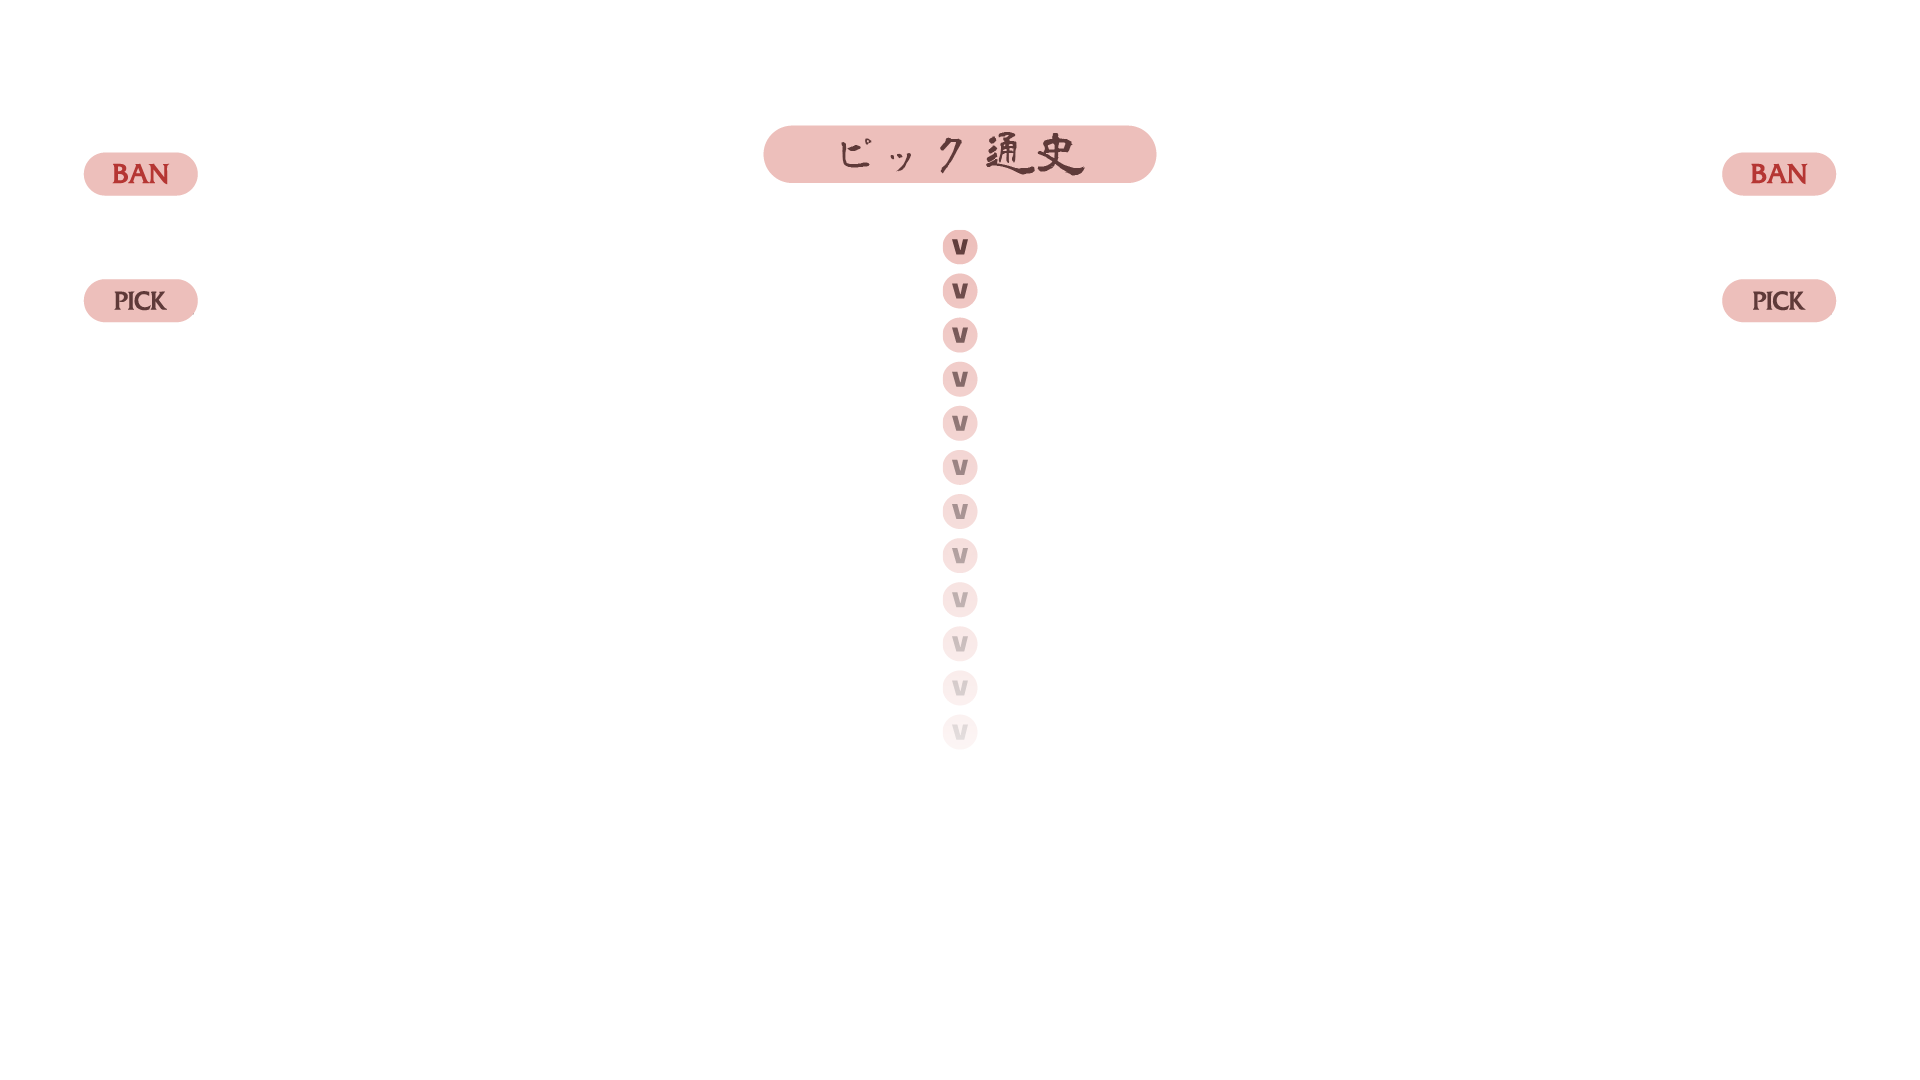
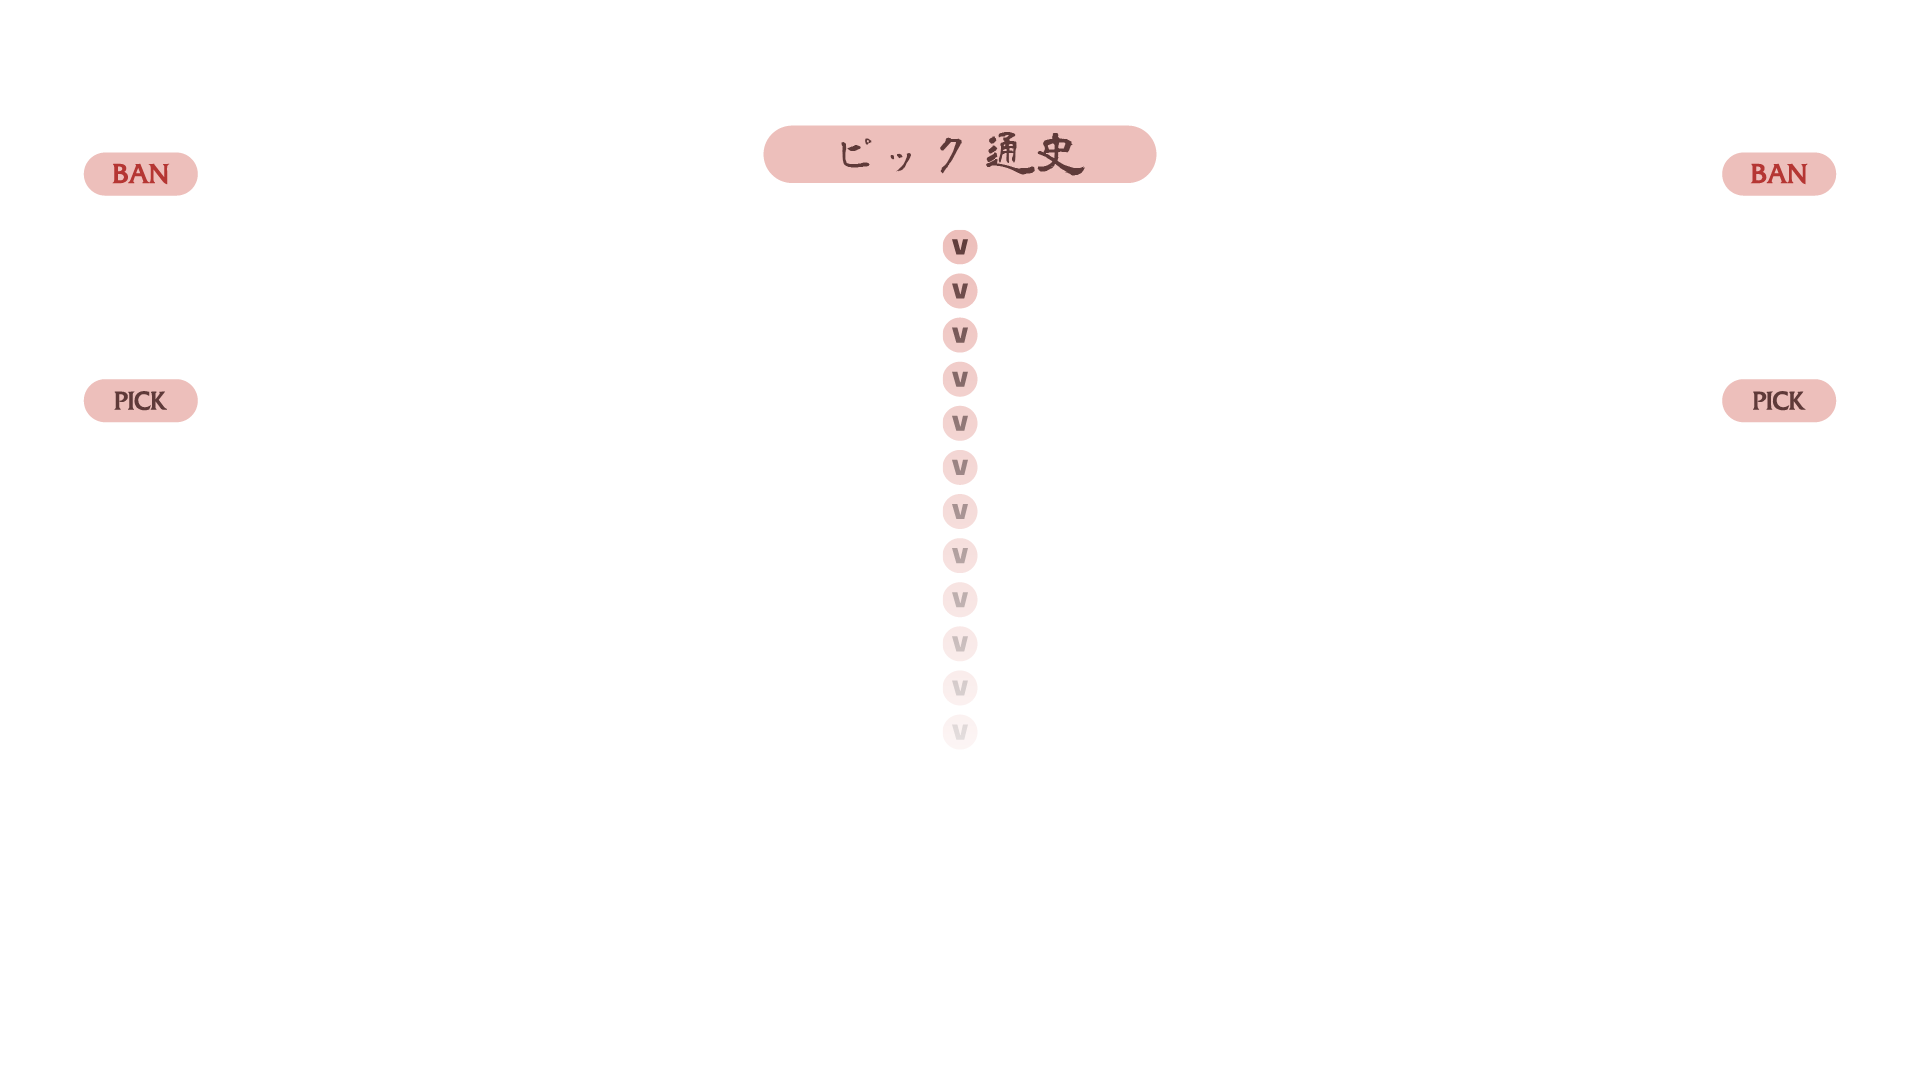
- fixed overlay for 2 bans

diff --git a/overlay/match/index.js b/overlay/match/index.js
@@ -91,7 +91,7 @@ class ScoreTracker {
         this.leftClients = [];
         this.rightClients = [];
     }
-    addClient(client,isLeft) {
+    addClient(client, isLeft) {
         if (isLeft) {
             this.leftClients.push(client);
         } else {
@@ -99,9 +99,9 @@ class ScoreTracker {
         }
     }
     updateClients(data) {
-        data.map(async(clientData,index) => {
+        data.map(async (clientData, index) => {
             // console.log(index);
-            const client = index < 2 ? this.leftClients[index] : this.rightClients[index-2];
+            const client = index < 2 ? this.leftClients[index] : this.rightClients[index - 2];
             if (client) {
                 client.updateMiss(clientData.gameplay.combo.current);
                 client.updateGood(clientData.gameplay.accuracy);
@@ -113,16 +113,16 @@ class ScoreTracker {
         })
     }
     getScores() {
-        if (this.currentState != 3) return null,null;
+        if (this.currentState != 3) return null, null;
         let left = 0;
         let right = 0;
-        this.leftClients.map(async(client) => {
+        this.leftClients.map(async (client) => {
             left += client.score ?? 0;
         })
-        this.rightClients.map(async(client) => {
+        this.rightClients.map(async (client) => {
             right += client.score ?? 0;
         })
-        return [left,right];
+        return [left, right];
     }
     updateState(state) {
         this.currentState = state;
@@ -171,7 +171,7 @@ class Client {
         this.matchClientUr = document.createElement("div");
         this.matchClientNameContainer = document.createElement("div");
         this.matchClientName = document.createElement("div");
-        
+
         this.matchClientDetails.id = `${this.clientNumber}CLIENTDETAILS`;
         this.matchClientMissGlow.id = `${this.clientNumber}CLIENTMISSGLOW`;
         this.matchClientLeft.id = `${this.clientNumber}CLIENTLEFT`;
@@ -210,7 +210,7 @@ class Client {
         document.getElementById(this.matchClientDetails.id).appendChild(this.matchClientMissGlow);
         document.getElementById(this.matchClientDetails.id).appendChild(this.matchClientLeft);
         document.getElementById(this.matchClientDetails.id).appendChild(this.matchClientRight);
-        
+
         document.getElementById(`${this.matchClientLeft.id}`).appendChild(this.matchClient100Container);
         document.getElementById(`${this.matchClientLeft.id}`).appendChild(this.matchClientMissContainer);
         document.getElementById(this.matchClientRight.id).appendChild(this.matchClientUrContainer);
@@ -916,74 +916,82 @@ class MatchManager {
         this.controllerTurn = document.getElementById("controllerTurn");
         this.controllerTurn.addEventListener("click", async (event) => {
             if (this.playerTurn == "left") {
-                if (this.hasBanned && this.banCount < 2) {
+                if (this.hasBanned && this.banCount < 4) {
                     this.hasBanned = false;
-                    this.controllerTurn.innerHTML = `Left Player ${this.banCount < 2 ? "Ban" : "Pick"}`;
+                    this.controllerTurn.innerHTML = `Left Player ${this.banCount < 4 ? "Ban" : "Pick"}`;
                     this.bottomT1Pick.style.animation = "fadeInRight 1s cubic-bezier(0.000, 0.125, 0.000, 1.005)";
                     this.bottomT1Pick.style.opacity = 1;
                     this.bottomT2Pick.style.animation = "fadeOutLeft 1s cubic-bezier(0.000, 0.125, 0.000, 1.005)";
                     this.bottomT2Pick.style.opacity = 0;
-                } else if (this.hasBanned || this.banCount < 2) {
-                    this.playerTurn = "right";
-                    this.controllerTurn.innerHTML = `Right Player ${this.banCount < 2 ? "Ban" : "Pick"}`;
+                } else if (this.hasBanned || this.banCount < 4) {
+                    this.playerTurn = this.banCount == 2 ? "left" : "right";
+                    this.controllerTurn.innerHTML = `${this.banCount == 2 ? "Left" : "Right"} Player ${this.banCount < 4 ? "Ban" : "Pick"}`;
                     if (this.hasBanned) {
                         this.bottomT1Pick.style.animation = "fadeOutRight 1s cubic-bezier(0.000, 0.125, 0.000, 1.005)";
                         this.bottomT1Pick.style.opacity = 0;
                         this.bottomT2Pick.style.animation = "fadeOutLeft 1s cubic-bezier(0.000, 0.125, 0.000, 1.005)";
                         this.bottomT2Pick.style.opacity = 0;
                     } else {
-                        this.bottomT2Pick.style.animation = "fadeInLeft 1s cubic-bezier(0.000, 0.125, 0.000, 1.005)";
-                        this.bottomT2Pick.style.opacity = 1;
-                        this.bottomT1Pick.style.animation = "fadeOutRight 1s cubic-bezier(0.000, 0.125, 0.000, 1.005)";
-                        this.bottomT1Pick.style.opacity = 0;
+                        if (this.banCount == 2) {
+                            this.bottomT1Pick.style.animation = "pickingBob 1s cubic-bezier(0,.7,.39,.99)";
+                        } else {
+                            this.bottomT2Pick.style.animation = "fadeInLeft 1s cubic-bezier(0.000, 0.125, 0.000, 1.005)";
+                            this.bottomT2Pick.style.opacity = 1;
+                            this.bottomT1Pick.style.animation = "fadeOutRight 1s cubic-bezier(0.000, 0.125, 0.000, 1.005)";
+                            this.bottomT1Pick.style.opacity = 0;
+                        }
                     }
                 } else {
                     this.hasBanned = true;
-                    this.controllerTurn.innerHTML = `Left Player ${this.banCount < 2 ? "Ban" : "Pick"}`;
+                    this.controllerTurn.innerHTML = `Left Player ${this.banCount < 4 ? "Ban" : "Pick"}`;
                     this.bottomT1Pick.style.animation = "pickingBob 1s cubic-bezier(0,.7,.39,.99)";
                 }
             } else {
-                if (this.hasBanned && this.banCount < 2) {
+                if (this.hasBanned && this.banCount < 4) {
                     this.hasBanned = false;
-                    this.controllerTurn.innerHTML = `Right Player ${this.banCount < 2 ? "Ban" : "Pick"}`;
+                    this.controllerTurn.innerHTML = `Right Player ${this.banCount < 4 ? "Ban" : "Pick"}`;
                     this.bottomT2Pick.style.animation = "fadeInLeft 1s cubic-bezier(0.000, 0.125, 0.000, 1.005)";
                     this.bottomT2Pick.style.opacity = 1;
                     this.bottomT1Pick.style.animation = "fadeOutRight 1s cubic-bezier(0.000, 0.125, 0.000, 1.005)";
                     this.bottomT1Pick.style.opacity = 0;
-                } else if (this.hasBanned || this.banCount < 2) {
-                    this.playerTurn = "left";
-                    this.controllerTurn.innerHTML = `Left Player ${this.banCount < 2 ? "Ban" : "Pick"}`;
+                } else if (this.hasBanned || this.banCount < 4) {
+                    this.playerTurn = this.banCount == 2 ? "right" : "left";
+                    this.controllerTurn.innerHTML = `${this.banCount == 2 ? "Right" : "Left"} Player ${this.banCount < 4 ? "Ban" : "Pick"}`;
                     if (this.hasBanned) {
                         this.bottomT1Pick.style.animation = "fadeOutRight 1s cubic-bezier(0.000, 0.125, 0.000, 1.005)";
                         this.bottomT1Pick.style.opacity = 0;
                         this.bottomT2Pick.style.animation = "fadeOutLeft 1s cubic-bezier(0.000, 0.125, 0.000, 1.005)";
                         this.bottomT2Pick.style.opacity = 0;
                     } else {
-                        this.bottomT1Pick.style.animation = "fadeInRight 1s cubic-bezier(0.000, 0.125, 0.000, 1.005)";
-                        this.bottomT1Pick.style.opacity = 1;
-                        this.bottomT2Pick.style.animation = "fadeOutLeft 1s cubic-bezier(0.000, 0.125, 0.000, 1.005)";
-                        this.bottomT2Pick.style.opacity = 0;
+                        if (this.banCount == 2) {
+                            this.bottomT2Pick.style.animation = "pickingBob 1s cubic-bezier(0,.7,.39,.99)";
+                        } else {
+                            this.bottomT1Pick.style.animation = "fadeInRight 1s cubic-bezier(0.000, 0.125, 0.000, 1.005)";
+                            this.bottomT1Pick.style.opacity = 1;
+                            this.bottomT2Pick.style.animation = "fadeOutLeft 1s cubic-bezier(0.000, 0.125, 0.000, 1.005)";
+                            this.bottomT2Pick.style.opacity = 0;
+                        }
                     }
                 } else {
                     this.hasBanned = true;
-                    this.controllerTurn.innerHTML = `Right Player ${this.banCount < 2 ? "Ban" : "Pick"}`;
+                    this.controllerTurn.innerHTML = `Right Player ${this.banCount < 4 ? "Ban" : "Pick"}`;
                     this.bottomT2Pick.style.animation = "pickingBob 1s cubic-bezier(0,.7,.39,.99)";
                 }
             }
-            this.bottomT1PickText.innerHTML = this.banCount < 2 ? "Currently Banning" : "Currently Picking";
-            this.bottomT2PickText.innerHTML = this.banCount < 2 ? "Currently Banning" : "Currently Picking";
+            this.bottomT1PickText.innerHTML = this.banCount < 4 ? "Currently Banning" : "Currently Picking";
+            this.bottomT2PickText.innerHTML = this.banCount < 4 ? "Currently Banning" : "Currently Picking";
         });
 
         this.controllerUndo = document.getElementById("controllerUndo");
         this.controllerUndo.addEventListener("click", async (event) => {
             let deletedPick;
-            if (this.pickCount > 2) {
+            if (this.pickCount > 4) {
                 deletedPick = this.overviewBeatmaps.find(overviewBeatmap => overviewBeatmap.pickIndex == this.pickCount && overviewBeatmap.isPick);
                 deletedPick.isWin ? deletedPick.isWinPlayerOne ? this.leftWins-- : this.rightWins-- : null;
                 deletedPick.cancelOperation(this.pickCount);
                 this.pickCount--;
                 this.controllerTurn.click();
-            } else if (this.pickCount <= 2 & this.banCount > 0) {
+            } else if (this.pickCount <= 4 & this.banCount > 0) {
                 deletedPick = this.overviewBeatmaps.find(overviewBeatmap => overviewBeatmap.pickIndex == this.pickCount && overviewBeatmap.isBan);
                 deletedPick.isWin ? deletedPick.isWinPlayerOne ? this.leftWins-- : this.rightWins-- : null;
                 deletedPick.cancelOperation(this.pickCount);
@@ -997,7 +1005,7 @@ class MatchManager {
         this.controllerArrow.addEventListener("click", async (event) => {
             if (!this.togglePickVar) return;
             this.unpulseOverview("");
-            if (!this.currentMatchScene && (this.bestOf - 1) * 2 != this.pickCount - 2 && (this.scoreOne != this.bestOf && this.scoreTwo != this.bestOf && this.leftWins != this.bestOf && this.rightWins != this.bestOf)) {
+            if (!this.currentMatchScene && (this.bestOf - 1) * 2 != this.pickCount - 4 && (this.scoreOne != this.bestOf && this.scoreTwo != this.bestOf && this.leftWins != this.bestOf && this.rightWins != this.bestOf)) {
                 if (this.playerTurn == "left") {
                     this.bottomT1Pick.style.animation = "fadeInRight 1s cubic-bezier(0.000, 0.125, 0.000, 1.005)";
                     this.bottomT1Pick.style.opacity = 1;
@@ -1064,7 +1072,7 @@ class MatchManager {
                 setTimeout(function () {
                     this.mappoolScene.style.animation = "mappoolSceneIn 1s cubic-bezier(0.000, 0.125, 0.000, 1.005)";
                     this.mappoolScene.style.opacity = 1;
-                    if (!this.togglePickVar && (this.bestOf - 1) * 2 != this.pickCount - 2 && (this.scoreOne != this.bestOf && this.scoreTwo != this.bestOf && this.leftWins != this.bestOf && this.rightWins != this.bestOf)) {
+                    if (!this.togglePickVar && (this.bestOf - 1) * 2 != this.pickCount - 4 && (this.scoreOne != this.bestOf && this.scoreTwo != this.bestOf && this.leftWins != this.bestOf && this.rightWins != this.bestOf)) {
                         if (this.playerTurn == "left") {
                             this.bottomT1Pick.style.animation = "fadeInRight 1s cubic-bezier(0.000, 0.125, 0.000, 1.005)";
                             this.bottomT1Pick.style.opacity = 1;
@@ -1086,7 +1094,7 @@ class MatchManager {
                 this.currentMatchScene = true;
                 this.mappoolScene.style.animation = "mappoolSceneOut 1s cubic-bezier(.45,0,1,.48)";
                 this.mappoolScene.style.opacity = 0;
-                if (!this.togglePickVar && (this.bestOf - 1) * 2 != this.pickCount - 2 && (this.scoreOne != this.bestOf && this.scoreTwo != this.bestOf && this.leftWins != this.bestOf && this.rightWins != this.bestOf)) {
+                if (!this.togglePickVar && (this.bestOf - 1) * 2 != this.pickCount - 4 && (this.scoreOne != this.bestOf && this.scoreTwo != this.bestOf && this.leftWins != this.bestOf && this.rightWins != this.bestOf)) {
                     if (this.playerTurn == "left") {
                         this.bottomT1Pick.style.animation = "fadeOutRight 1s cubic-bezier(0.000, 0.125, 0.000, 1.005)";
                         this.bottomT1Pick.style.opacity = 0;
@@ -1244,7 +1252,7 @@ class MatchManager {
                     } else if (event.ctrlKey || event.shiftKey) {
                         return;
                     } else {
-                        if (this.banCount < 2 && !bm.isBan) {
+                        if (this.banCount < 4 && !bm.isBan) {
                             // BANNING
                             this.pickCount++;
                             this.banCount++;
@@ -1252,7 +1260,7 @@ class MatchManager {
                             this.resultsManager.update();
                             bm.toggleBan(this.playerTurn == "left" ? this.leftPlayerData.FlagName : this.rightPlayerData.FlagName, this.playerTurn == "left" ? true : false, this.pickCount);
                             this.controllerTurn.click();
-                        } else if (this.banCount == 2 && !bm.isPick && !bm.isBan && (this.bestOf - 1) * 2 != this.pickCount - 2) {
+                        } else if (this.banCount == 4 && !bm.isPick && !bm.isBan && (this.bestOf - 1) * 2 != this.pickCount - 4) {
                             // PICKING
                             this.pickCount++;
                             this.unpulseOverview(bm.layerName);
@@ -1884,10 +1892,10 @@ class GameplayManager {
 
     async setupClients() {
         const clientNumber = 4
-        for (let i=1;i<clientNumber+1;i++) {
+        for (let i = 1; i < clientNumber + 1; i++) {
             const client = new Client(i);
             client.generate();
-            this.scoreTracker.addClient(client, i<3?true:false);
+            this.scoreTracker.addClient(client, i < 3 ? true : false);
         }
     }
 
@@ -2400,10 +2408,10 @@ function updateTeamLineups(clients) {
     clients.map((client) => {
         if (leftTeamPlayers.includes(client.spectating.name)) {
             leftTeam += (left > 0 ? `, ` : ``) + `${client.spectating.name}`;
-            left ++;
+            left++;
         } else if (rightTeamPlayers.includes(client.spectating.name)) {
             rightTeam += (right > 0 ? `, ` : ``) + `${client.spectating.name}`;
-            right ++;
+            right++;
         }
     })
 

diff --git a/overlay/match/style.css b/overlay/match/style.css
@@ -420,7 +420,7 @@
 #playerOneQueue {
     position: absolute;
     left: 238px;
-    top: 253px;
+    top: 353px;
     width: 466px;
     display: flex;
     flex-direction: column;
@@ -430,7 +430,7 @@
 #playerTwoQueue {
     position: absolute;
     left: 1216px;
-    top: 253px;
+    top: 353px;
     width: 466px;
     display: flex;
     flex-direction: column;
@@ -440,7 +440,7 @@
 #tbQueue {
     position: absolute;
     left: 727px;
-    top: 818px;
+    top: 918px;
     width: 466px;
     display: flex;
     flex-direction: column;
